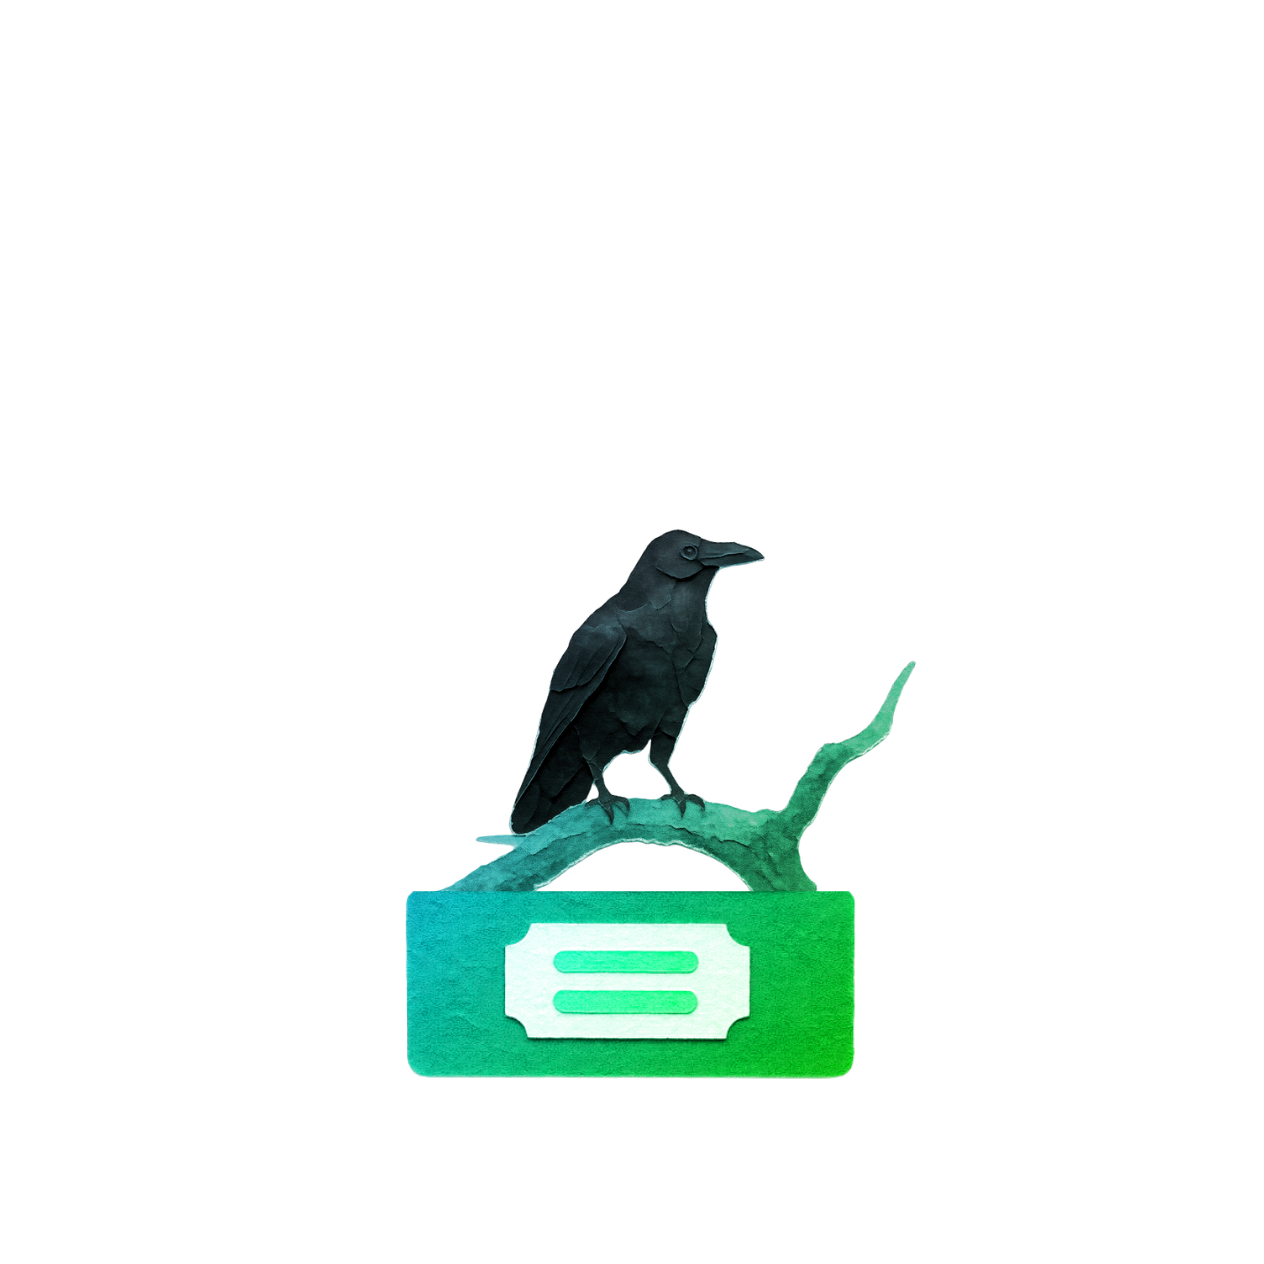
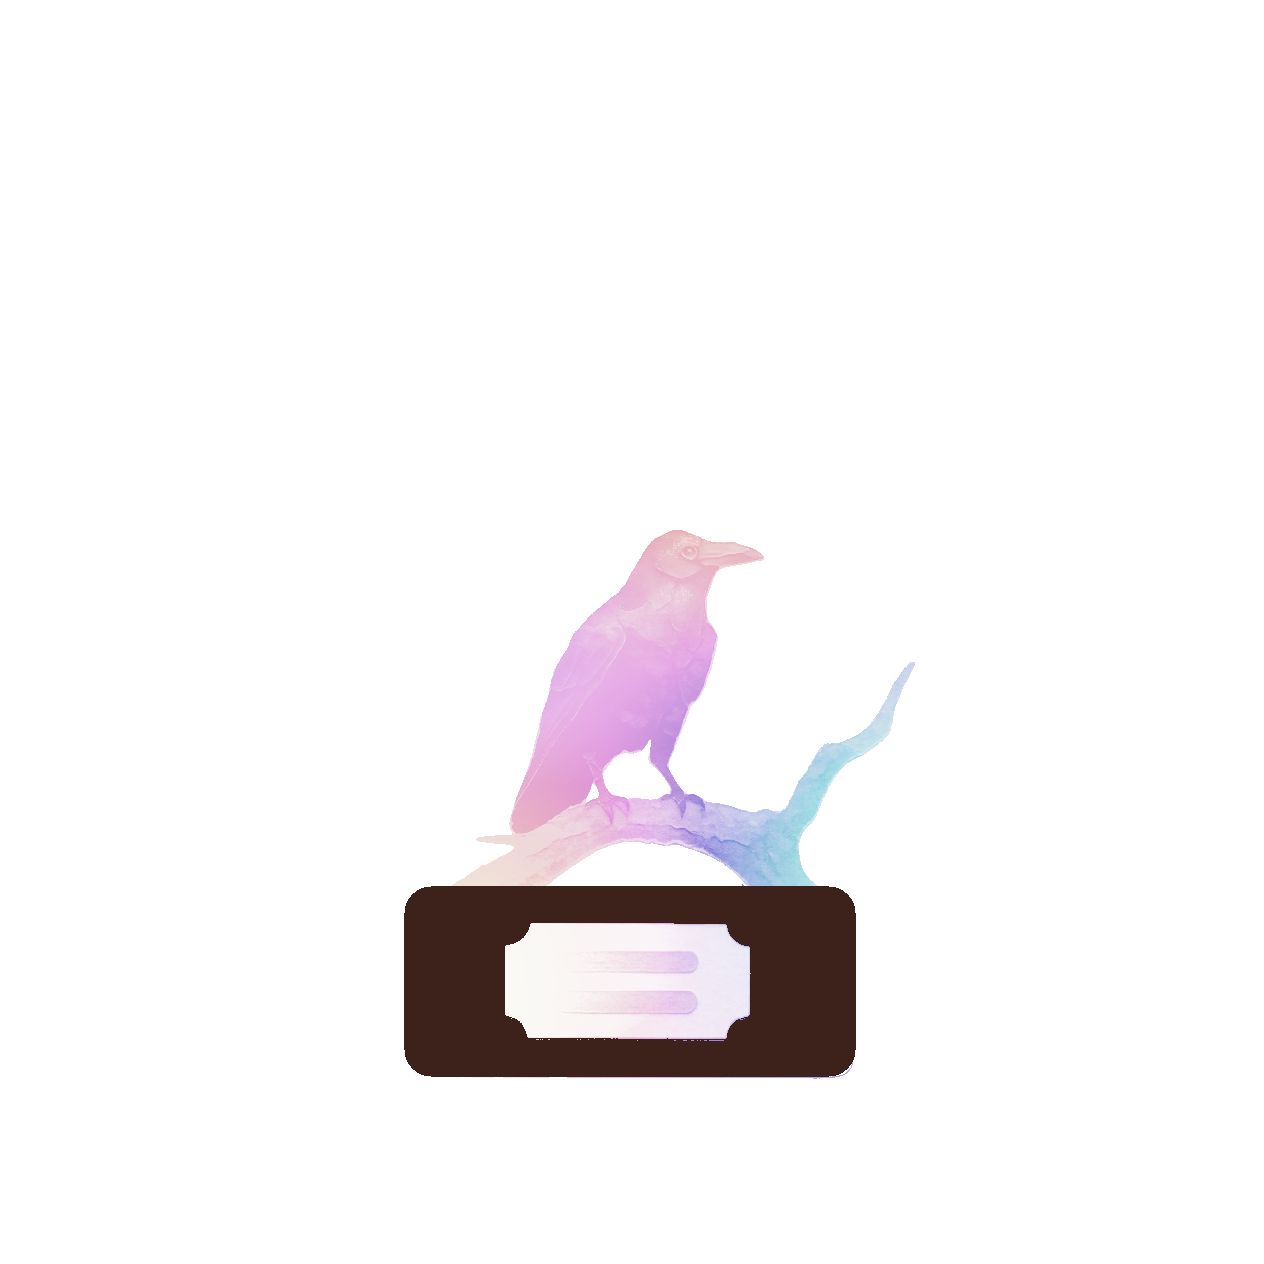
Refonte trophees batch 6 : Corvidae (corvid) + Paridae (mesange). 5 tiers chacun, nouveau pipeline. Compression ~46%. Cache v328.

Changed region(s): [[0.3085, 0.4011, 0.7405, 0.8639]]

diff --git a/service-worker.js b/service-worker.js
@@ -3,7 +3,7 @@
 //   puis rafraichit en background. Prochain reload = nouvelle version.
 // - Requetes cross-origin (Firestore, iNaturalist, xeno-canto, Wikipedia, etc.) : reseau seul.
 // - Bump CACHE_VERSION quand on veut invalider volontairement.
-const CACHE_VERSION = 'v327-2026-09-19-dedup-gbif-ebird-hotspot';
+const CACHE_VERSION = 'v328-2026-09-19-batch6-corvid-mesange';
 const CACHE_NAME = 'lmb-' + CACHE_VERSION;
 
 self.addEventListener('install', (e) => {
